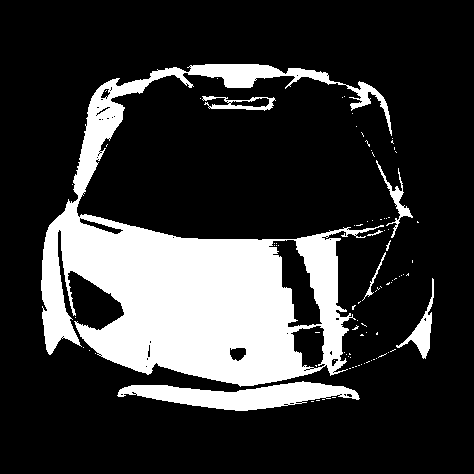
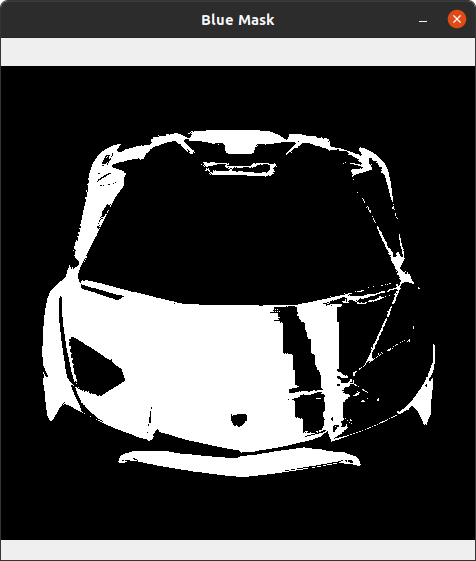
Updated ReadMe Images

diff --git a/Code/main.py b/Code/main.py
@@ -3,7 +3,7 @@ import cv2 as cv
 import numpy as np
 
 # defining path to image file
-path_to_img = 'Code/test_images/Cars/blue_car.jpeg'
+path_to_img = 'Code/test_images/Cars/white_car.jpeg'
 
 # reading image from specified path
 img = cv.imread(path_to_img)
